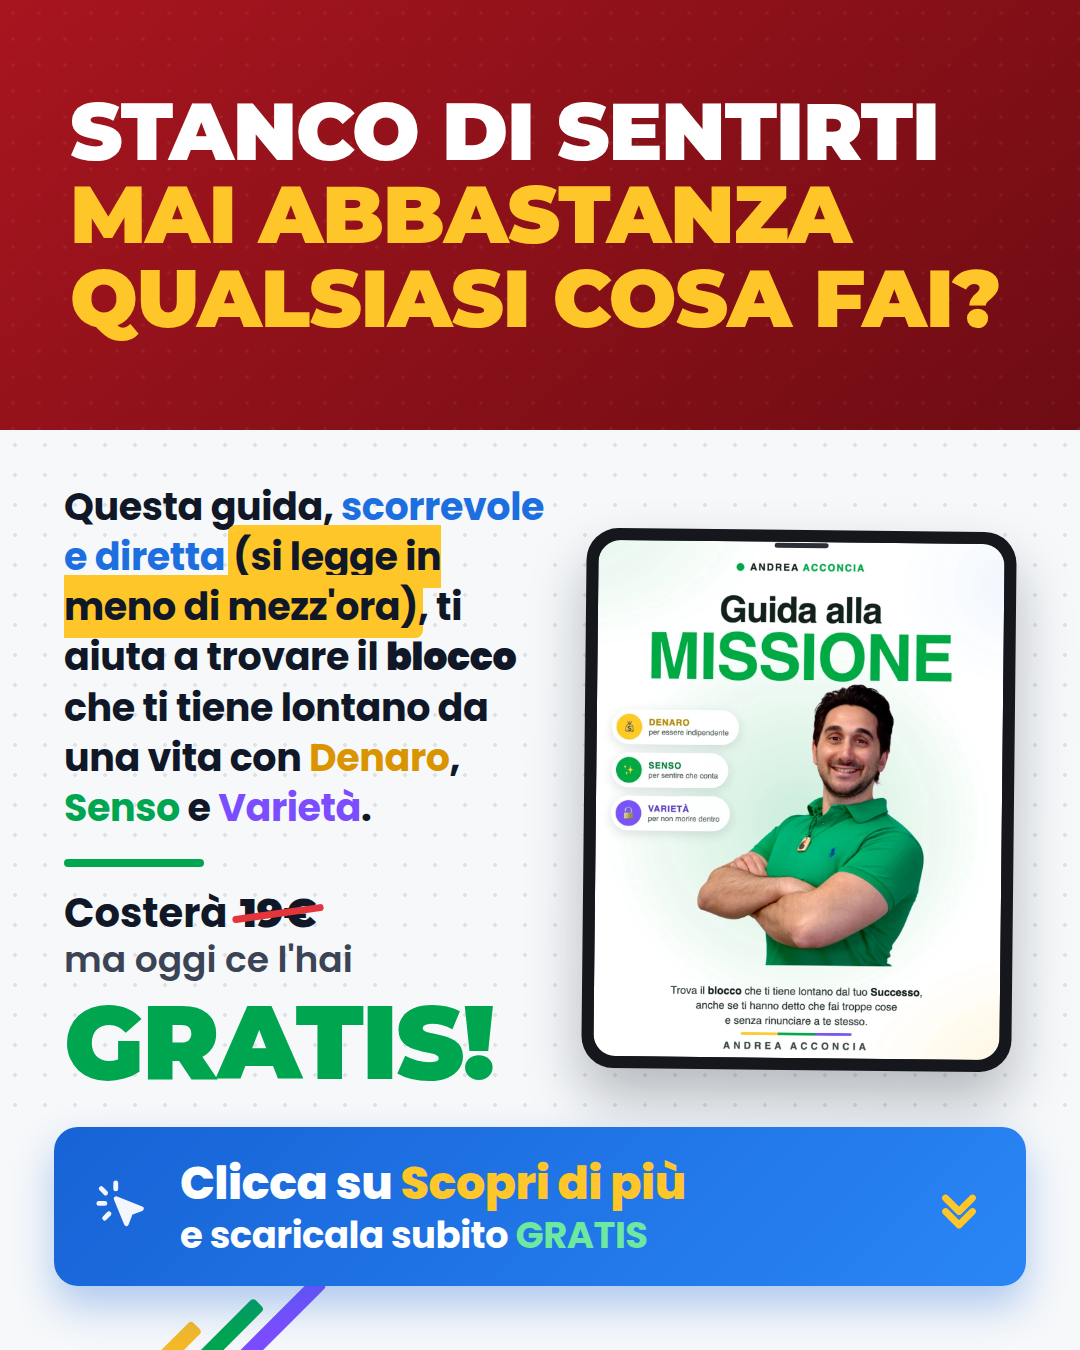
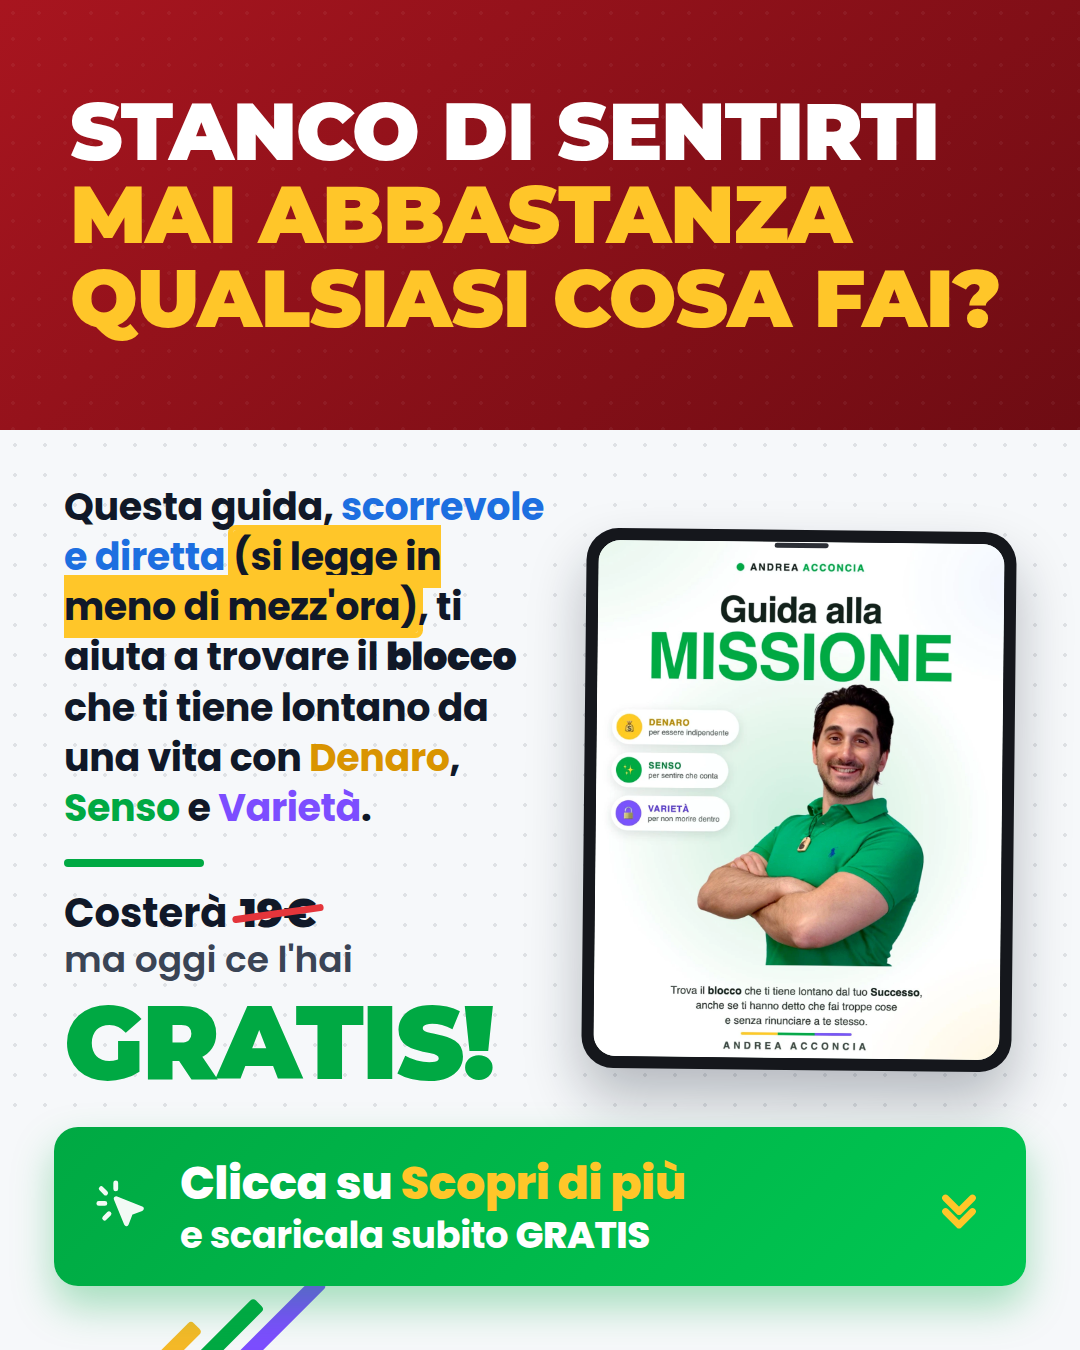
Pulsante CTA nel verde di brand invece che blu
- verde di brand #00A943, campionato dal lettering "MISSIONE" della
  copertina (24.455 pixel, la tinta piu' presente nell'immagine)
- il pulsante "Clicca su Scopri di piu'" passa dal gradiente blu a
  #00A943 -> #00C752, ombra coerente
- "GRATIS" nel pulsante passa dal verde menta al bianco: sul fondo
  verde il menta non staccava piu'
- lo stesso #00A943 sostituisce l'approssimazione #00A550 usata finora
  per "GRATIS!", il filetto e la striscia, cosi' tutti i verdi del
  creativo coincidono con quello della copertina

Claude-Session: https://claude.ai/code/session_016egf769pWHnc4UkpRBaZxo

Changed region(s): [[0.0306, 0.8089, 0.9778, 0.9956]]

diff --git a/src/template.js b/src/template.js
@@ -5,10 +5,10 @@ const H = 1350; // formato 4:5
 
 const C = {
   gold: '#F5B928',
-  green: '#00A550',
+  green: '#00A943',      // verde di brand (campionato dalla copertina)
   purple: '#7C4DFF',
-  blue: '#1763D6',
-  blueLight: '#2A86F5',
+  ctaFrom: '#00A943',    // pulsante CTA: verde di brand
+  ctaTo: '#00C752',      // stessa tinta, piu chiara, per il gradiente
   ink: '#101828',
   paper: '#F6F8FA',
   painFrom: '#A8151F',
@@ -16,7 +16,6 @@ const C = {
   offerFrom: '#0C6130',
   offerTo: '#053F1D',
   yellow: '#FFC629',
-  mint: '#6EE7A0',
 };
 
 const fontFace = (family, weight, file) => `
@@ -119,13 +118,13 @@ body{font-family:'Poppins',sans-serif;background:${C.paper};overflow:hidden}
 /* ---------- CTA ---------- */
 .cta-wrap{position:relative;z-index:2;flex:0 0 auto;padding:0 54px 64px}
 .cta{display:flex;align-items:center;gap:28px;padding:30px 40px;border-radius:24px;
-  background:linear-gradient(135deg,${C.blue} 0%,${C.blueLight} 100%);
-  box-shadow:0 20px 40px rgba(23,99,214,.32)}
+  background:linear-gradient(135deg,${C.ctaFrom} 0%,${C.ctaTo} 100%);
+  box-shadow:0 20px 40px rgba(0,169,67,.34)}
 .cta .click{flex:0 0 auto;color:#fff;opacity:.95;display:flex}
 .cta .txt{flex:1 1 auto;min-width:0;color:#fff;font-weight:800;font-size:46px;line-height:1.14;letter-spacing:-.5px}
 .cta .txt .l2{display:block;font-weight:700;font-size:37px;margin-top:4px}
 .cta .txt .y{color:${C.yellow}}
-.cta .txt .g{color:${C.mint}}
+.cta .txt .g{color:#fff;font-weight:800}
 .cta .chev{flex:0 0 auto;color:${C.yellow};display:flex}
 
 /* strisce diagonali in basso a sinistra */

diff --git a/README.md b/README.md
@@ -6,7 +6,9 @@ Generatore di creativi 4:5 (1080×1350) per le sponsorizzate del manuale gratuit
 Il layout ricalca i creativi già in uso per il Metodo OCME (banda superiore con il
 pain, corpo con copy + mockup della copertina, bottone CTA blu, strisce diagonali
 in basso a sinistra), con la palette della Guida alla Missione:
-oro `#F5B928` · verde `#00A550` · viola `#7C4DFF`.
+oro `#F5B928` · verde di brand `#00A943` · viola `#7C4DFF`.
+Il verde è campionato dal lettering "MISSIONE" della copertina ed è lo stesso
+usato per il pulsante CTA.
 
 ## Come si usa
 
